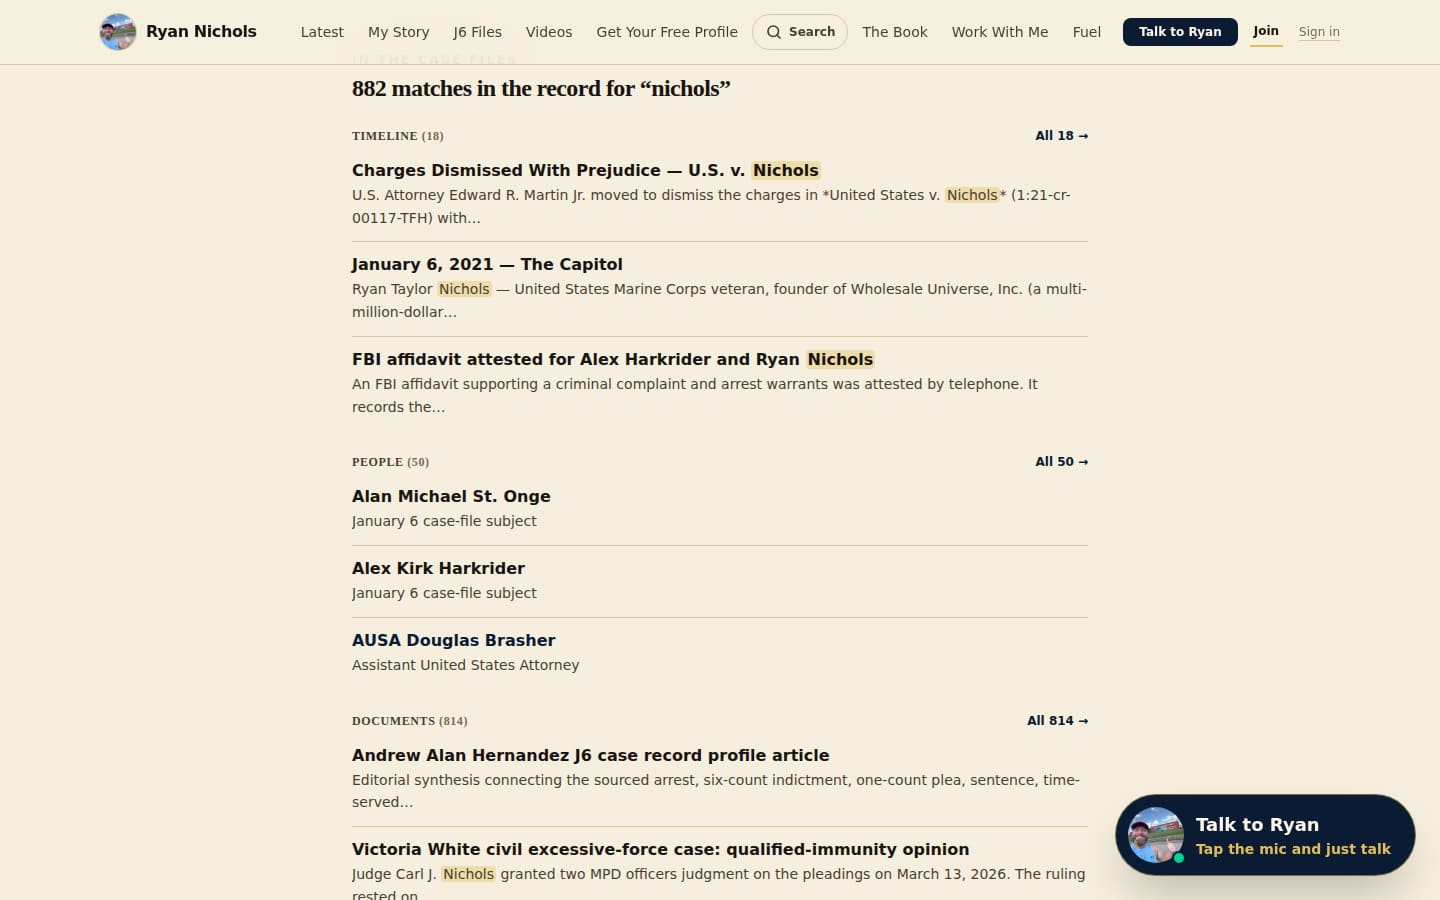
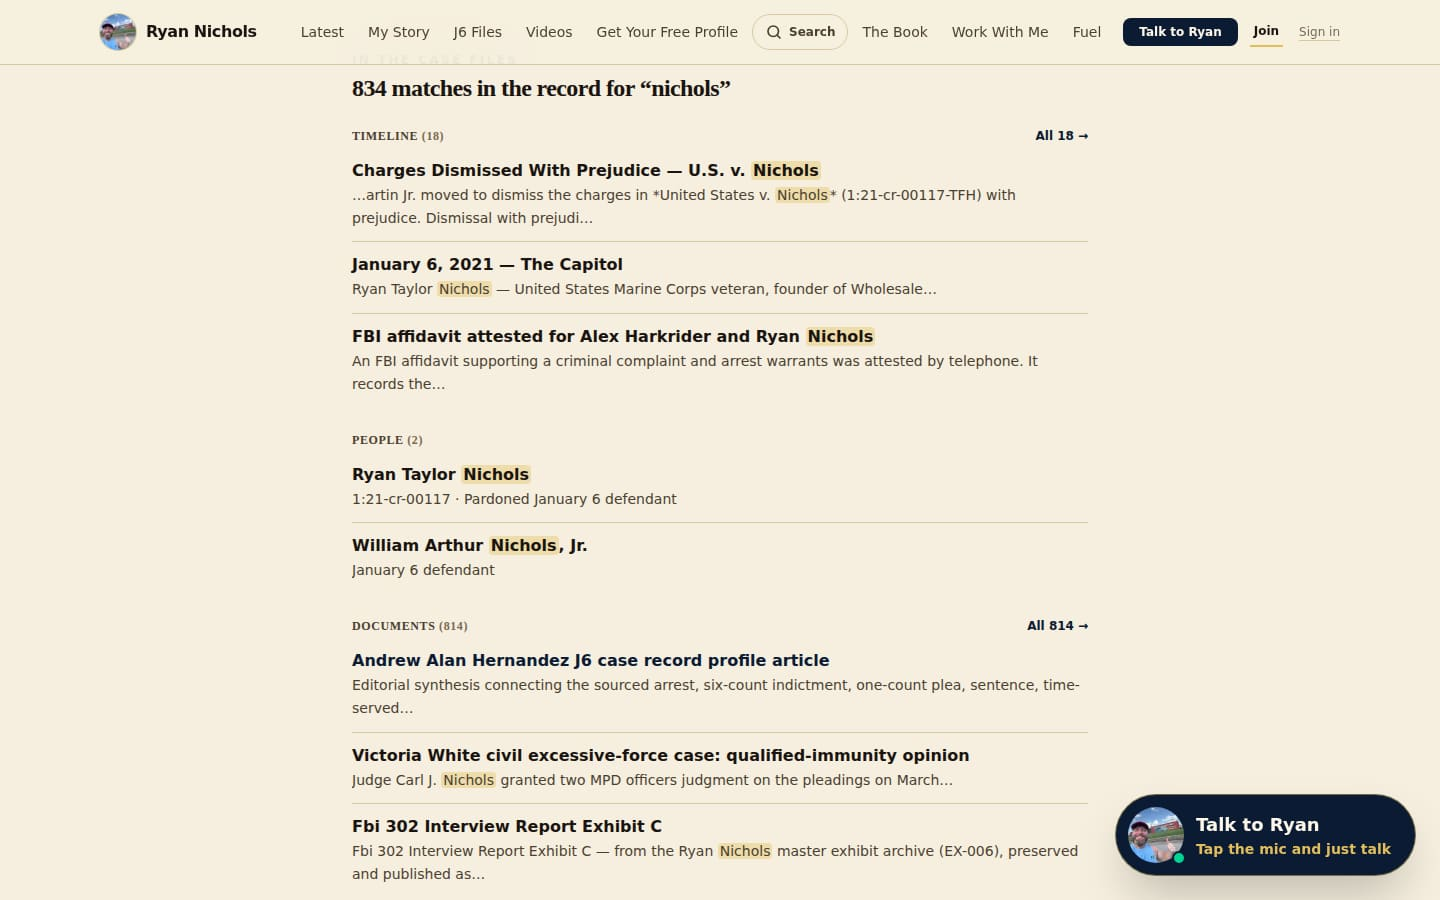
Move 13 review: one result set, one narrow fetch, a snippet with the match in it
Codex, five findings, all applied:
- People come from the directory's own query (getJ6PeoplePage: J6
  defendants by name, case number, or role), so the sample and the
  "All N" link into /case?view=people show the same result set, and a
  docket number finds its defendant. The archive's people predicate gains
  case_number too.
- No full-table fetch per search: the grievances, events, and a slim
  document index (getDocumentsIndex, no transcripts) are one cached
  corpus (unstable_cache, 300s), and people are one narrow request.
  filterArchive is generic over the person and document row types.
- Snippets are taken around the first occurrence of the query when the
  field has one, so the mark is in the sample; a grievance falls back to
  its body, a document to its type and source.
- The focus-order finding is fixed on the Move 11 branch this stacks on.

Claude-Session: https://claude.ai/code/session_013yY82UKXnA5A6346PxQm9y

diff --git a/website/app/search/page.tsx b/website/app/search/page.tsx
@@ -5,18 +5,19 @@ import { format } from "date-fns";
 import { SearchBox } from "@/components/SearchBox";
 import { getSupabaseStaticClient } from "@/lib/supabase/static";
 import { SITE } from "@/lib/site";
+import { unstable_cache } from "next/cache";
 import {
   getGrievances,
-  getPeople,
+  getJ6PeoplePage,
   getEvents,
-  getDocuments,
-  type CaseDocument,
+  getDocumentsIndex,
+  type CaseDocumentIndexRow,
   type CaseEvent,
   type CaseGrievance,
   type CasePerson,
 } from "@/lib/case";
 import { filterArchive } from "@/components/case/archive";
-import { Highlight } from "@/components/case/Highlight";
+import { Highlight, excerptAround } from "@/components/case/Highlight";
 
 export const dynamic = "force-dynamic";
 
@@ -59,6 +60,25 @@ function readQuery(sp: Record<string, string | string[] | undefined>): string {
   return (v ?? "").trim().slice(0, 120);
 }
 
+// The case record the search reads: every public grievance and event, and
+// a slim index of every public document (no transcripts). Fetched once and
+// kept for five minutes across requests, the same ISR window the case
+// archive uses, so an ordinary search does not re-download the record.
+// People are not here: they come from the directory's own server-side
+// query per search (getJ6PeoplePage), which is one narrow request.
+const getCaseCorpus = unstable_cache(
+  async () => {
+    const [grievances, events, documents] = await Promise.all([
+      getGrievances(),
+      getEvents(),
+      getDocumentsIndex(),
+    ]);
+    return { grievances, events, documents };
+  },
+  ["search-case-corpus"],
+  { revalidate: 300 },
+);
+
 export async function generateMetadata({
   searchParams,
 }: {
@@ -92,29 +112,35 @@ export default async function SearchPage({
   let caseHits: CaseHits | null = null;
   if (q.length >= 2) {
     const supabase = getSupabaseStaticClient();
-    const [{ data }, grievances, people, events, documents] = await Promise.all([
+    const [{ data }, corpus, j6] = await Promise.all([
       supabase.rpc("search_posts", { q, max_results: 50 }),
-      getGrievances(),
-      getPeople(),
-      getEvents(),
-      getDocuments(),
+      getCaseCorpus(),
+      // People come from the directory's own query (J6 defendants, by
+      // name, case number, or role), so the sample here and the "All N"
+      // link into /case?view=people show the same result set.
+      getJ6PeoplePage({ claimStatus: "all", q, page: 1, pageSize: 24 }),
     ]);
     results = (data ?? []) as Hit[];
     const found = filterArchive({
       q,
       j6Filter: "all",
-      grievances,
-      people,
-      events,
-      documents,
+      grievances: corpus.grievances,
+      people: [],
+      events: corpus.events,
+      documents: corpus.documents,
       peopleNamed: 0,
     });
     caseHits = {
       grievances: found.filteredGrievances,
       events: found.filteredEvents,
-      people: found.filteredPeople,
+      people: j6.people,
+      peopleTotal: j6.total,
       documents: found.filteredDocuments,
-      total: found.totalHits,
+      total:
+        found.filteredGrievances.length +
+        found.filteredEvents.length +
+        j6.total +
+        found.filteredDocuments.length,
     };
   }
 
@@ -235,8 +261,10 @@ export default async function SearchPage({
 type CaseHits = {
   grievances: CaseGrievance[];
   events: CaseEvent[];
+  // The directory's first page for the query, and its full count.
   people: CasePerson[];
-  documents: CaseDocument[];
+  peopleTotal: number;
+  documents: CaseDocumentIndexRow[];
   total: number;
 };
 
@@ -245,9 +273,14 @@ type CaseHits = {
 const CASE_SAMPLE = 3;
 
 // A snippet is a pointer, not the record: the full text lives on the hit's
-// own page. Clipped before it is marked so a dozen hits stay a few KB.
+// own page. About SNIPPET characters, taken around the first occurrence of
+// the query when the field has one (so the mark is in the sample), else
+// from the field's opening. Clipped before it is marked so a dozen hits
+// stay a few KB.
 const SNIPPET = 120;
-function clip(text: string | null | undefined): string | null {
+function snippet(text: string | null | undefined, q: string): string | null {
+  const around = excerptAround(text, q, Math.floor(SNIPPET / 2));
+  if (around) return around;
   if (!text) return null;
   const t = text.trim();
   return t.length <= SNIPPET ? t : `${t.slice(0, SNIPPET).replace(/\s+\S*$/, "")}…`;
@@ -258,49 +291,56 @@ function clip(text: string | null | undefined): string | null {
 // and one door to the full results on /case.
 function CaseFilesHits({ hits, q }: { hits: CaseHits; q: string }) {
   const encoded = encodeURIComponent(q);
+  // Each section's count is the full result set the "All N" link opens;
+  // the items are its sample. Three sections filter the cached corpus the
+  // way /case?q= does; people carry the directory's own count.
   const sections = [
     {
       key: "grievances",
       label: "Grievances",
       href: `/case?view=grievances&q=${encoded}`,
+      count: hits.grievances.length,
       items: hits.grievances.map((g) => ({
         slug: g.slug,
         href: `/case/grievances/${g.slug}`,
         title: g.title,
-        sub: clip(g.summary),
+        sub: snippet(g.summary, q) ?? snippet(g.body, q),
       })),
     },
     {
       key: "timeline",
       label: "Timeline",
       href: `/case?view=timeline&q=${encoded}`,
+      count: hits.events.length,
       items: hits.events.map((e) => ({
         slug: e.slug,
         href: `/case/events/${e.slug}`,
         title: e.title,
-        sub: clip(e.description),
+        sub: snippet(e.description, q),
       })),
     },
     {
       key: "people",
       label: "People",
       href: `/case?view=people&q=${encoded}`,
+      count: hits.peopleTotal,
       items: hits.people.map((p) => ({
         slug: p.slug,
         href: `/case/people/${p.slug}`,
         title: p.name,
-        sub: p.role,
+        sub: [p.case_number, p.role].filter(Boolean).join(" · ") || null,
       })),
     },
     {
       key: "documents",
       label: "Documents",
       href: `/case?view=documents&q=${encoded}`,
+      count: hits.documents.length,
       items: hits.documents.map((d) => ({
         slug: d.slug,
         href: `/case/documents/${d.slug}`,
         title: d.title,
-        sub: clip(d.description),
+        sub: snippet(d.description, q) ?? ([d.doc_type, d.source].filter(Boolean).join(" · ") || null),
       })),
     },
   ];
@@ -329,22 +369,22 @@ function CaseFilesHits({ hits, q }: { hits: CaseHits; q: string }) {
       ) : (
         <>
           {sections
-            .filter((s) => s.items.length > 0)
+            .filter((s) => s.count > 0)
             .map((s) => (
               <div key={s.key} className="mt-6">
                 <div className="flex items-baseline justify-between gap-3">
                   <h3 className="text-xs font-bold uppercase tracking-wider text-[var(--color-ink-soft)]">
                     {s.label}{" "}
                     <span className="text-[var(--color-muted)]">
-                      ({s.items.length.toLocaleString("en-US")})
+                      ({s.count.toLocaleString("en-US")})
                     </span>
                   </h3>
-                  {s.items.length > CASE_SAMPLE ? (
+                  {s.count > CASE_SAMPLE ? (
                     <Link
                       href={s.href}
                       className="inline-flex min-h-11 items-center gap-1 text-xs font-bold text-[var(--color-navy)] hover:underline sm:min-h-0"
                     >
-                      All {s.items.length.toLocaleString("en-US")}
+                      All {s.count.toLocaleString("en-US")}
                       <span aria-hidden>→</span>
                     </Link>
                   ) : null}

diff --git a/website/components/case/archive.ts b/website/components/case/archive.ts
@@ -79,7 +79,17 @@ export function pageDirectory({
 // Rows per page on the timeline and documents views.
 export const ARCHIVE_PAGE_SIZE = 48;
 
-export function filterArchive({
+// The fields the search reads from a person and a document. filterArchive
+// is generic over them so a caller can pass slimmer rows (the sitewide
+// search's document index carries no transcript) and get the same rows
+// back, typed as it sent them.
+export type SearchablePerson = Pick<
+  CasePerson,
+  "name" | "role" | "agency" | "description" | "case_number" | "is_j6_defendant" | "claim_status"
+>;
+export type SearchableDocument = Pick<CaseDocument, "title" | "description" | "doc_type" | "source">;
+
+export function filterArchive<P extends SearchablePerson, D extends SearchableDocument>({
   q,
   j6Filter,
   grievances,
@@ -91,9 +101,9 @@ export function filterArchive({
   q: string;
   j6Filter: J6Filter;
   grievances: CaseGrievance[];
-  people: CasePerson[];
+  people: P[];
   events: CaseEvent[];
-  documents: CaseDocument[];
+  documents: D[];
   // The public people count from lib/case.ts, shown when nothing is searched.
   peopleNamed: number;
 }) {
@@ -102,9 +112,11 @@ export function filterArchive({
         matchesQuery(q, g.title, g.summary, g.body, g.category)
       )
     : grievances;
+  // The same fields the people directory searches (name, case number,
+  // role), plus the archive's agency and description.
   const filteredPeopleByQ = q
     ? people.filter((p) =>
-        matchesQuery(q, p.name, p.role, p.agency, p.description)
+        matchesQuery(q, p.name, p.case_number, p.role, p.agency, p.description)
       )
     : people;
   const filteredPeople =

diff --git a/website/lib/case.ts b/website/lib/case.ts
@@ -395,6 +395,38 @@ export async function getEventBySlug(slug: string): Promise<CaseEvent | null> {
   return (data ?? null) as CaseEvent | null;
 }
 
+// The columns the sitewide search reads and shows for a document: what
+// filterArchive matches on plus what a result card needs. No transcript,
+// so the whole index is a few hundred KB rather than megabytes and can be
+// held in a cache. Same order as getDocuments().
+const DOCUMENT_INDEX_COLS = "id, slug, title, description, doc_type, source, document_date";
+export type CaseDocumentIndexRow = Pick<
+  CaseDocument,
+  "id" | "slug" | "title" | "description" | "doc_type" | "source" | "document_date"
+>;
+
+export async function getDocumentsIndex(): Promise<CaseDocumentIndexRow[]> {
+  const supabase = getSupabaseStaticClient();
+  const PAGE = 1000;
+  const all: CaseDocumentIndexRow[] = [];
+  for (let from = 0; ; from += PAGE) {
+    const { data, error } = await supabase
+      .from("case_documents")
+      .select(DOCUMENT_INDEX_COLS)
+      .eq("visibility", "public")
+      .eq("archived", false)
+      .order("document_date", { ascending: false, nullsFirst: false })
+      .order("relevance", { ascending: false })
+      .order("title", { ascending: true })
+      .order("id", { ascending: true })
+      .range(from, from + PAGE - 1);
+    if (error || !data || data.length === 0) break;
+    all.push(...(data as CaseDocumentIndexRow[]));
+    if (data.length < PAGE) break;
+  }
+  return all;
+}
+
 export async function getDocuments(): Promise<CaseDocument[]> {
   // Paginate past PostgREST's 1000-row server cap.
   const supabase = getSupabaseStaticClient();
